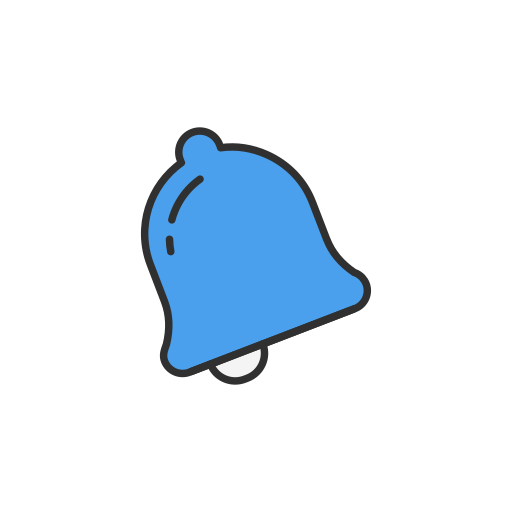
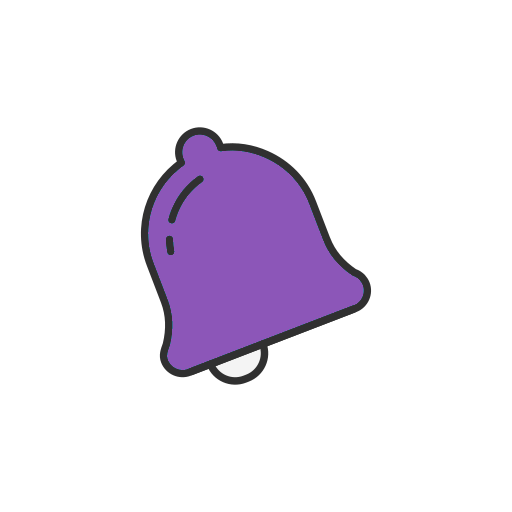
change alignement button Me noter and change colore of bell button

Changed region(s): [[0.2812, 0.25, 0.7188, 0.7188]]

diff --git a/src/main/resources/templates/infos.html b/src/main/resources/templates/infos.html
@@ -127,6 +127,7 @@
                         <input type="hidden" name="hypnotherapist" th:value="${hypnotherapist.id}">
                         <button type="submit" class="btn btn-info">Me contacter</button>
                     </form>
+                    <br>
                     <a class="btn btn-info" th:href="@{/comment}">Me noter</a>
                 </div>
              </div>

diff --git a/src/main/resources/static/style.css b/src/main/resources/static/style.css
@@ -222,6 +222,9 @@ a {
 .btn-info{
     background-color: #8c56b8;
     border-style: none;
+    display: flex;
+    justify-content: center;
+    
 }
 
 /* Page Profil Particulier */
